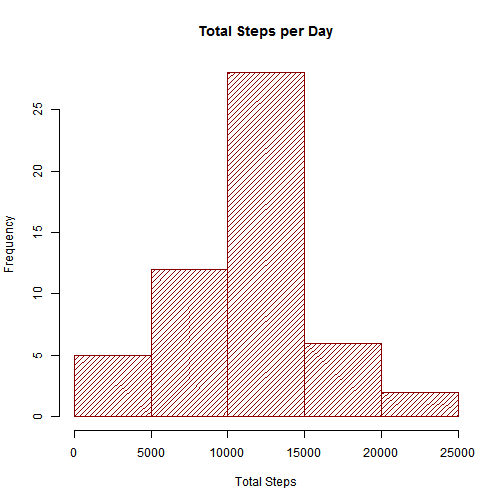
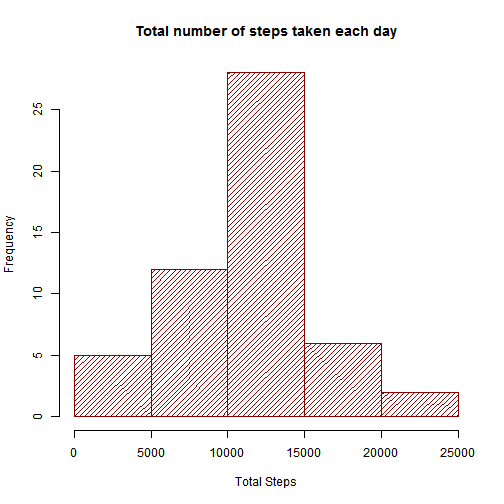
Improvements to readability

Changed region(s): [[0.2679, 0.0298, 0.8036, 0.0893]]

diff --git a/PA1_template.html b/PA1_template.html
@@ -277,7 +277,7 @@ print(xtable(head(activity)), type=&quot;html&quot;)
 
 <!-- html table generated in R 3.2.1 by xtable 1.7-4 package -->
 
-<!-- Fri Aug 07 12:34:11 2015 -->
+<!-- Fri Aug 07 13:26:27 2015 -->
 
 <table border=1>
 <tr> <th>  </th> <th> steps </th> <th> date </th> <th> interval </th>  </tr>
@@ -307,13 +307,13 @@ daily.steps &lt;- activity %&gt;%
 
 <p>Make a histogram of the total number of steps taken each day</p>
 
-<pre><code class="r">hist(daily.steps$steps.sum, main=&quot;Total Steps per Day&quot;, xlab=&quot;Total Steps&quot;,
-     ylab=&quot;Frequency&quot;, col=&quot;dark red&quot;, density=20)
+<pre><code class="r">hist(daily.steps$steps.sum, main=&quot;Total number of steps taken each day&quot;,
+     xlab=&quot;Total Steps&quot;, ylab=&quot;Frequency&quot;, col=&quot;dark red&quot;, density=20)
 </code></pre>
 
[2 lines of base64/hex data omitted]
 
-<h3>B.3. Report median and mean</h3>
+<h3>B.3. Report median and mean number of steps taken each day</h3>
 
 <p>Calculate and report the mean and median of the total number of steps taken
 per day</p>
@@ -334,7 +334,7 @@ per day</p>
 
 <h2>C. What is the average daily activity pattern?</h2>
 
-<h3>C.1. Time Series: steps per interval</h3>
+<h3>C.1. Time Series: average steps per 5-minute interval</h3>
 
 <p>Make a time series plot (i.e. type = &ldquo;l&rdquo;) of the 5-minute interval (x-axis) 
 and the average number of steps taken, averaged across all days (y-axis)</p>
@@ -347,7 +347,7 @@ plot(steps.ts, type=&quot;l&quot;, col=&quot;blue&quot;, lwd=2,
 
[1 lines of base64/hex data omitted]
 
-<h3>C.2. Most Active Interval?</h3>
+<h3>C.2. Most Active 5-minute Interval?</h3>
 
 <p>Which 5-minute interval, on average across all the days in the dataset, contains the maximum number of steps?</p>
 
@@ -360,7 +360,11 @@ plot(steps.ts, type=&quot;l&quot;, col=&quot;blue&quot;, lwd=2,
 
 <h2>D. Imputing missing values</h2>
 
-<p>Note that there are a number of days/intervals where there are missing values (coded as NA). The presence of missing days may introduce bias into some calculations or summaries of the data.</p>
+<p><em>Strategy for filling in the missing values in the dataset:</em>
+Replace the missing values with the mean for that 5-minute interval by
+separating missing and complete cases, then using <code>left_join</code> to
+replace the missing value with the appropriate average steps for
+that 5-minute interval.</p>
 
 <h3>D.1. Number of Missing Step Values?</h3>
 
@@ -373,11 +377,13 @@ plot(steps.ts, type=&quot;l&quot;, col=&quot;blue&quot;, lwd=2,
 <pre><code>## [1] 2304
 </code></pre>
 
-<h3>D.2. Impute Values from Mean Steps per Interval</h3>
+<h3>D.2. Strategy to Impute Values from Mean Steps per Interval</h3>
 
-<p>Devise a strategy for filling in all of the missing values in the dataset. The
-strategy does not need to be sophisticated. For example, you could use the
-mean/median for that day, or the mean for that 5-minute interval, etc.</p>
+<p>Strategy for filling in the missing values in the dataset:
+Replace the missing values with the mean for that 5-minute interval by
+separating missing and complete cases, then using <code>left_join</code> to
+replace the missing value with the appropriate average steps for
+that 5-minute interval.</p>
 
 <pre><code class="r"># Find both incomplete and complete cases
 missing.activity &lt;- tbl_df(activity.raw) %&gt;% filter(is.na(steps))
@@ -423,15 +429,16 @@ daily.complete.steps &lt;- whole.activites %&gt;%
 par(mfrow=c(2,1))
 
 hist(daily.complete.steps$steps.sum, 
-     main=&quot;Total Steps per Day\n(Complete Cases)&quot;, xlab=&quot;Total Steps&quot;,
-     ylab=&quot;Frequency&quot;, col=&quot;dark red&quot;, density=20)
+     main=&quot;Total Steps per Day\n(Complete with Imputed Data)&quot;,
+     xlab=&quot;Total Steps&quot;,
+     ylab=&quot;Frequency&quot;, col=&quot;dark green&quot;, density=20)
 
 hist(daily.steps$steps.sum, 
      main=&quot;Total Steps per Day\n(Original, Removing Incomplete Cases)&quot;,
      xlab=&quot;Total Steps&quot;, ylab=&quot;Frequency&quot;, col=&quot;gray40&quot;, density=20)
 </code></pre>
 
[2 lines of base64/hex data omitted]
 
 <pre><code class="r"># Create a small table to show how imputing values affects the mean
 # and median of total daily steps.
@@ -453,7 +460,7 @@ print(xtable(res), type = &quot;html&quot;)
 
 <!-- html table generated in R 3.2.1 by xtable 1.7-4 package -->
 
-<!-- Fri Aug 07 12:34:11 2015 -->
+<!-- Fri Aug 07 13:26:28 2015 -->
 
 <table border=1>
 <tr> <th>  </th> <th> Mean </th> <th> Median </th> <th> Difference </th>  </tr>

diff --git a/PA1_template.md b/PA1_template.md
@@ -90,7 +90,7 @@ print(xtable(head(activity)), type="html")
 ```
 
 <!-- html table generated in R 3.2.1 by xtable 1.7-4 package -->
-<!-- Fri Aug 07 12:34:11 2015 -->
+<!-- Fri Aug 07 13:26:27 2015 -->
 <table border=1>
 <tr> <th>  </th> <th> steps </th> <th> date </th> <th> interval </th>  </tr>
   <tr> <td align="right"> 1 </td> <td align="right">   0 </td> <td> 2012-10-02 </td> <td align="right">   0 </td> </tr>
@@ -118,13 +118,13 @@ daily.steps <- activity %>%
 Make a histogram of the total number of steps taken each day
 
 ```r
-hist(daily.steps$steps.sum, main="Total Steps per Day", xlab="Total Steps",
-     ylab="Frequency", col="dark red", density=20)
+hist(daily.steps$steps.sum, main="Total number of steps taken each day",
+     xlab="Total Steps", ylab="Frequency", col="dark red", density=20)
 ```
 
 ![plot of chunk B2.daily.steps.hist](figure/B2.daily.steps.hist-1.png) 
 
-### B.3. Report median and mean
+### B.3. Report median and mean number of steps taken each day
 Calculate and report the mean and median of the total number of steps taken
 per day
 
@@ -147,7 +147,7 @@ median(daily.steps$steps.sum)
 ***************************************
 
 ## C. What is the average daily activity pattern?
-### C.1. Time Series: steps per interval
+### C.1. Time Series: average steps per 5-minute interval
 Make a time series plot (i.e. type = "l") of the 5-minute interval (x-axis) 
 and the average number of steps taken, averaged across all days (y-axis)
 
@@ -160,7 +160,7 @@ plot(steps.ts, type="l", col="blue", lwd=2,
 
 ![plot of chunk C1.mean.steps.per.interval](figure/C1.mean.steps.per.interval-1.png) 
 
-### C.2. Most Active Interval?
+### C.2. Most Active 5-minute Interval?
 Which 5-minute interval, on average across all the days in the dataset, contains the maximum number of steps?
 
 ```r
@@ -171,7 +171,11 @@ The 5-minute interval, **835**, on average across all the days in the dataset, c
 ***************************************
 
 ## D. Imputing missing values
-Note that there are a number of days/intervals where there are missing values (coded as NA). The presence of missing days may introduce bias into some calculations or summaries of the data.
+*Strategy for filling in the missing values in the dataset:*
+Replace the missing values with the mean for that 5-minute interval by
+separating missing and complete cases, then using `left_join` to
+replace the missing value with the appropriate average steps for
+that 5-minute interval.
 
 ### D.1. Number of Missing Step Values?
 Calculate and report the total number of missing values in the dataset 
@@ -185,10 +189,13 @@ sum(is.na(activity.raw$steps))
 ## [1] 2304
 ```
 
-### D.2. Impute Values from Mean Steps per Interval
-Devise a strategy for filling in all of the missing values in the dataset. The
-strategy does not need to be sophisticated. For example, you could use the
-mean/median for that day, or the mean for that 5-minute interval, etc.
+### D.2. Strategy to Impute Values from Mean Steps per Interval
+Strategy for filling in the missing values in the dataset:
+Replace the missing values with the mean for that 5-minute interval by
+separating missing and complete cases, then using `left_join` to
+replace the missing value with the appropriate average steps for
+that 5-minute interval.
+
 
 ```r
 # Find both incomplete and complete cases
@@ -236,8 +243,9 @@ daily.complete.steps <- whole.activites %>%
 par(mfrow=c(2,1))
 
 hist(daily.complete.steps$steps.sum, 
-     main="Total Steps per Day\n(Complete Cases)", xlab="Total Steps",
-     ylab="Frequency", col="dark red", density=20)
+     main="Total Steps per Day\n(Complete with Imputed Data)",
+     xlab="Total Steps",
+     ylab="Frequency", col="dark green", density=20)
 
 hist(daily.steps$steps.sum, 
      main="Total Steps per Day\n(Original, Removing Incomplete Cases)",
@@ -266,7 +274,7 @@ print(xtable(res), type = "html")
 ```
 
 <!-- html table generated in R 3.2.1 by xtable 1.7-4 package -->
-<!-- Fri Aug 07 12:34:11 2015 -->
+<!-- Fri Aug 07 13:26:28 2015 -->
 <table border=1>
 <tr> <th>  </th> <th> Mean </th> <th> Median </th> <th> Difference </th>  </tr>
   <tr> <td align="right"> Original Data </td> <td align="right"> 10766.19 </td> <td align="right"> 10765.00 </td> <td align="right"> 1.19 </td> </tr>
